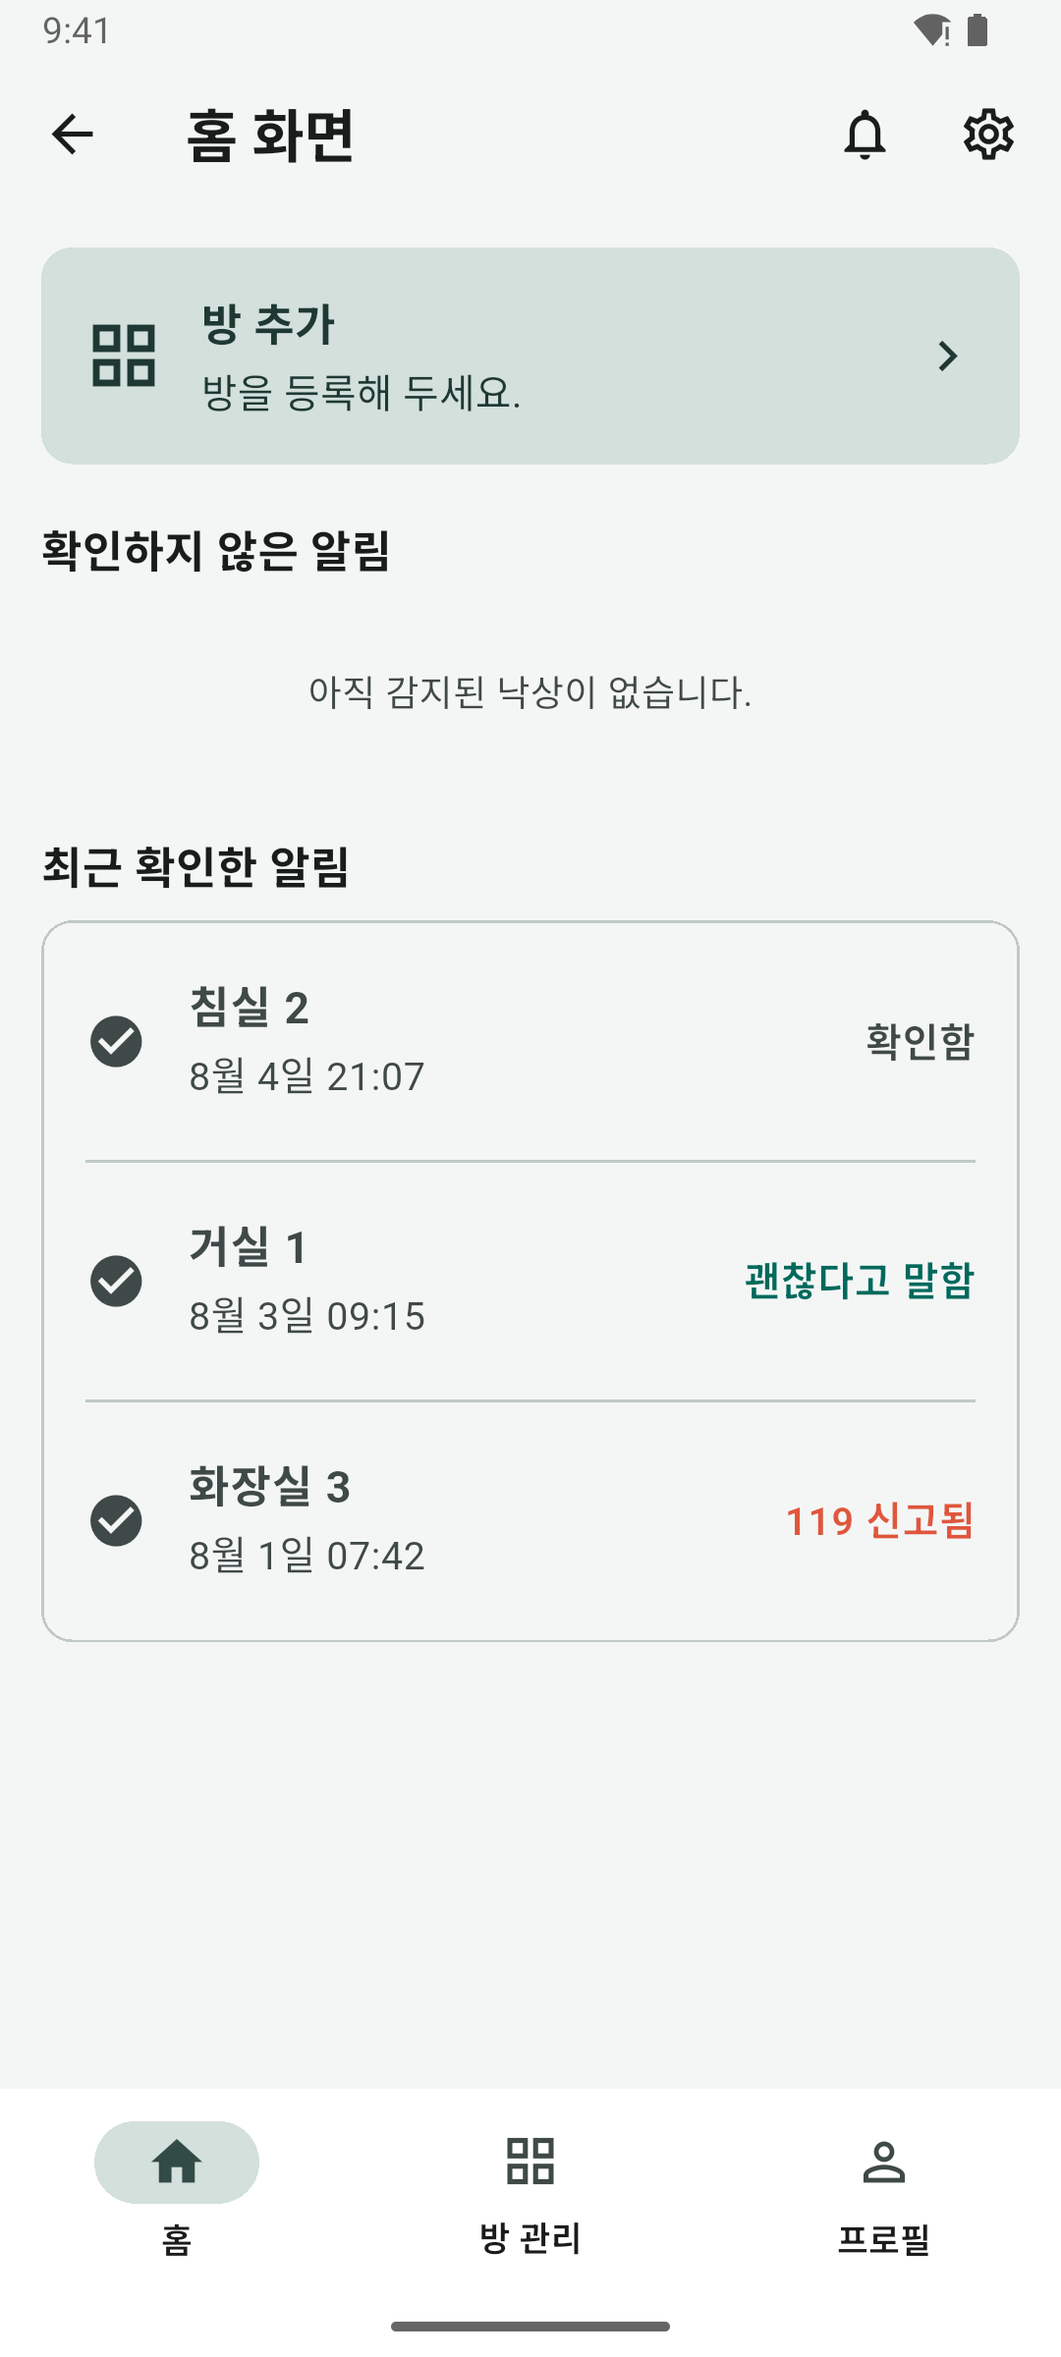
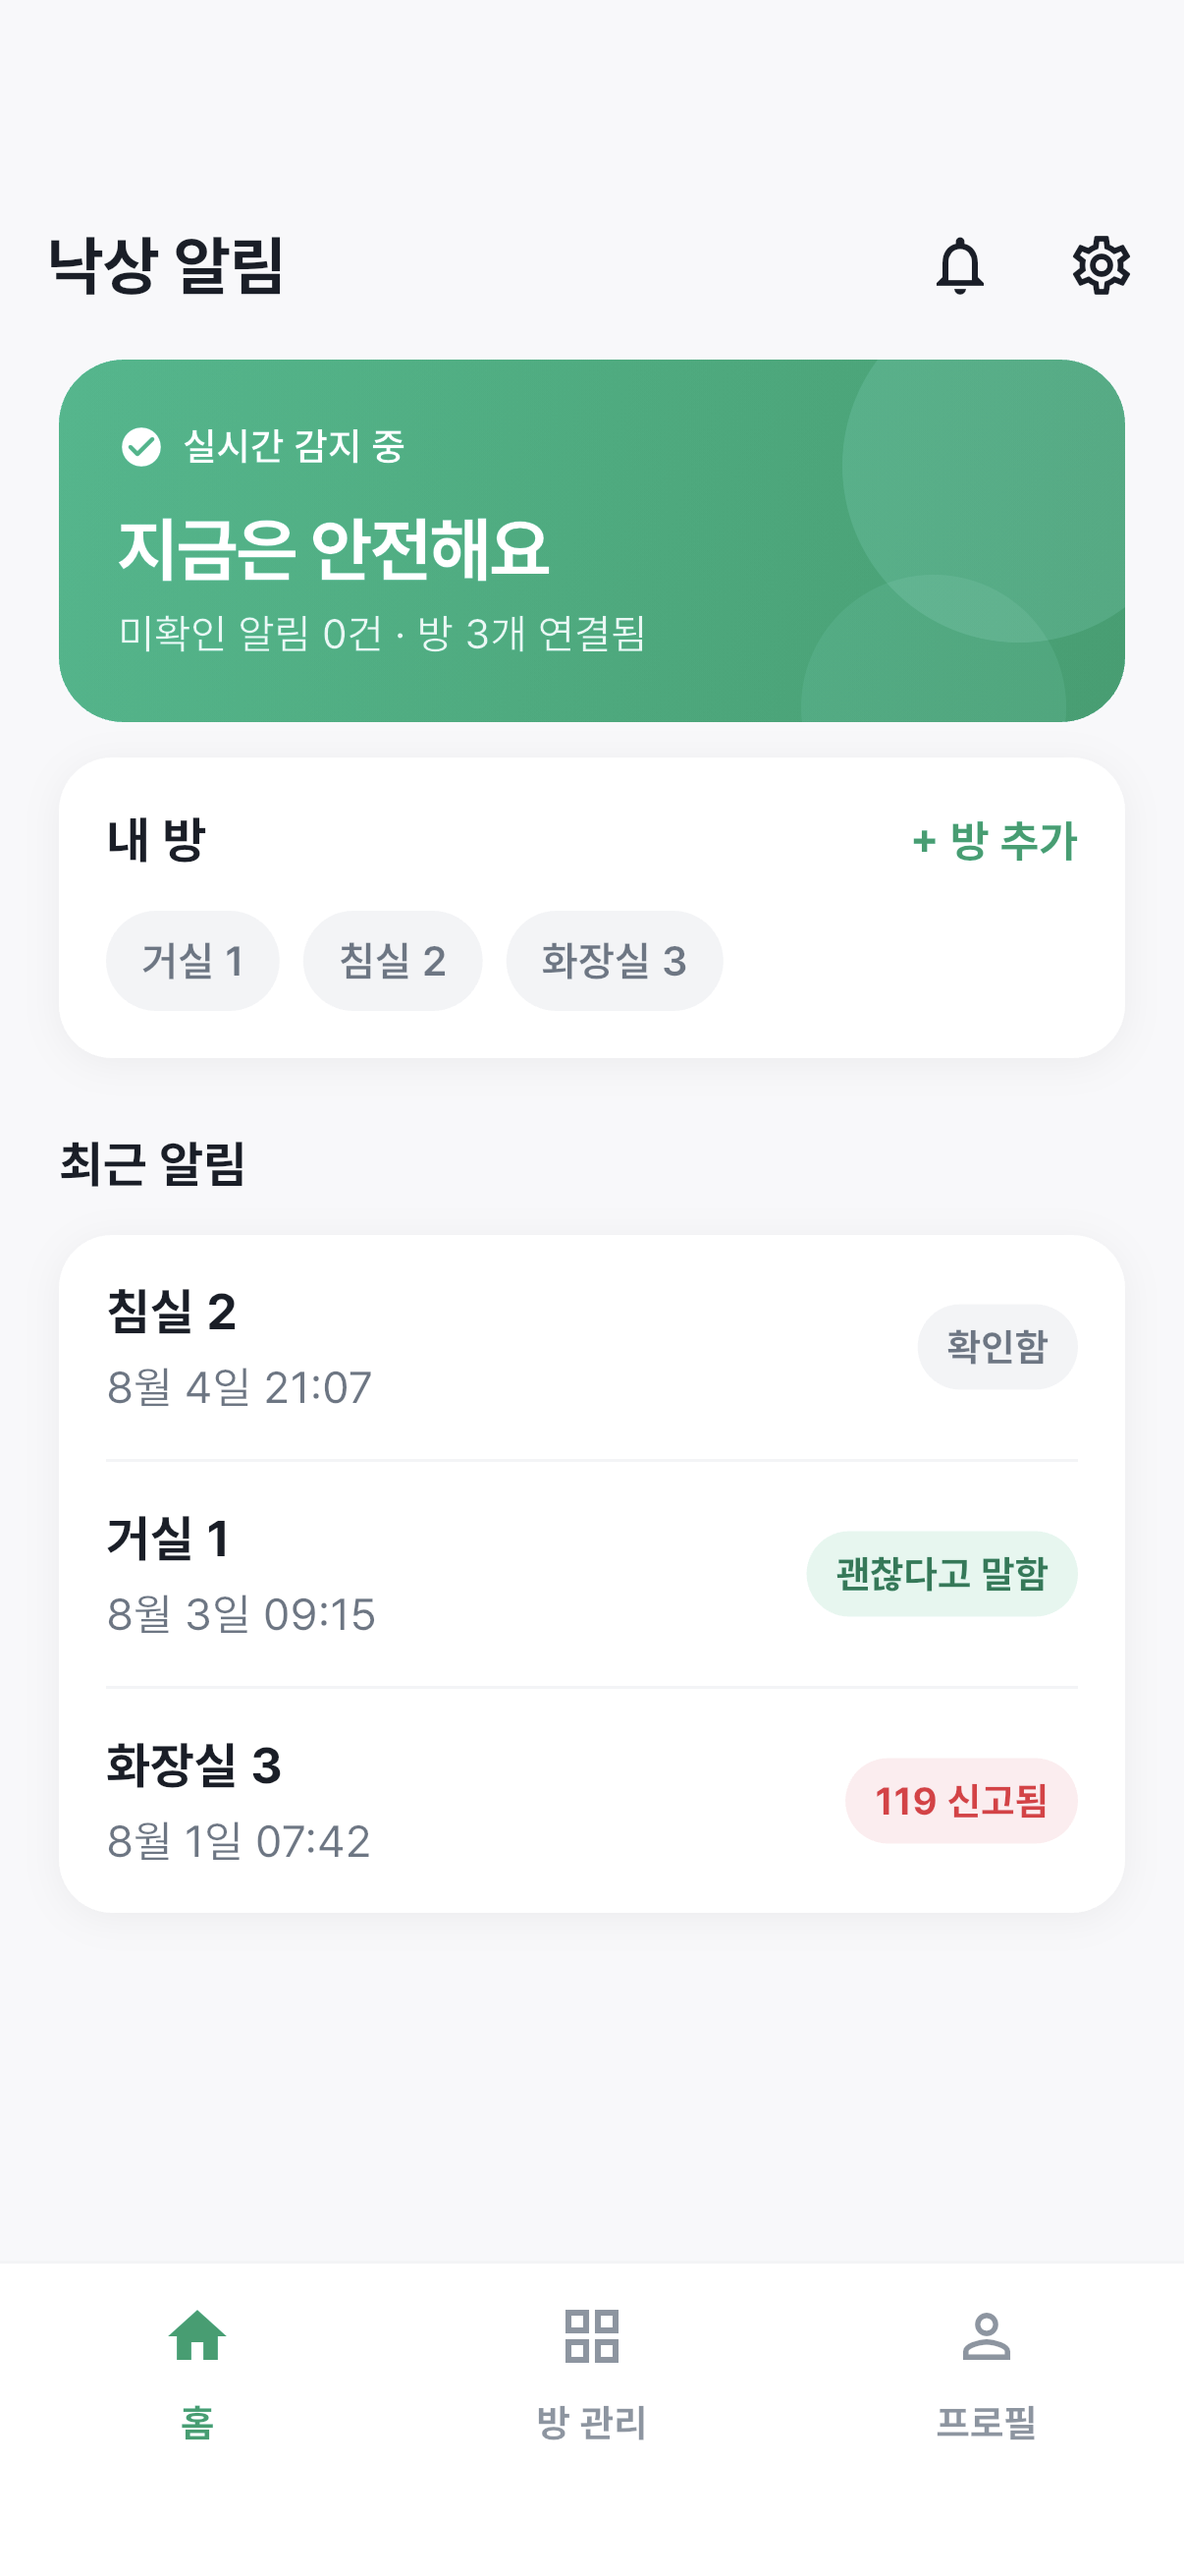
docs: README 보호자 앱 절 갱신, 새 디자인 스크린샷 14장 재캡처, 설계·계획에 구현 중 변경 반영
Claude-Session: https://claude.ai/code/session_013iyQUwcvBYESCEApFPvZjQ

diff --git a/docs/superpowers/plans/2026-08-29-app-visual-redesign.md b/docs/superpowers/plans/2026-08-29-app-visual-redesign.md
@@ -2660,36 +2660,23 @@ cd /Users/munhokang/82107/fall-detection && git add app/lib/app_theme.dart && gi
 
 로 바꾼다.
 
-- [ ] **Step 2: 시뮬레이터·백엔드 준비**
+- [ ] **Step 2: 자동 촬영 스크립트** (실행 중 변경 — 백엔드 대신 가짜 Api, 스펙 §8)
 
-`running-fall-guardian` 스킬을 읽고 그 절차대로 백엔드(Spring Boot + PostgreSQL)를 띄우고 방 3개(거실 1 · 침실 2 · 화장실 3)와 낙상 4건(미확인 1 · 확인함 1 · 괜찮다고 말함 1 · 119 신고됨 1)을 만든다. iOS 시뮬레이터:
+`app/test_driver/integration_test.dart`(드라이버: 받은 PNG를 `../docs/screenshots/<이름>.png`로 저장)와
+`app/integration_test/screenshots_test.dart`(가짜 `Api`로 방 3개 · 낙상 4건을 심고 12개 화면을 순서대로 띄워
+`binding.takeScreenshot('01-splash')` … `'14-settings'`)를 만든다. 사고 발생 창은 첫 폴링(프라이밍) 뒤
+6초 실제 시간을 기다려 두 번째 폴링에서 새 낙상이 들어오게 한다. OS 알림 권한 창이 캡처를 덮지 않게
+`LocalStore.setNotificationsOn(false)`를 먼저 부른다.
+
+- [ ] **Step 3: 시뮬레이터에서 촬영**
 
 ```bash
 xcrun simctl list devices available | grep -i iphone | head -3     # UDID 하나 고른다
-xcrun simctl boot <UDID>; open -a Simulator
-cd /Users/munhokang/82107/fall-detection/app && flutter run -d <UDID>
-```
-
-백엔드를 띄울 수 없으면(PostgreSQL 없음 등) 서버 없이 열리는 화면(01 스플래시 · 02 시작 · 03 로그인 · 04 회원가입 · 14 설정)만 찍고, 못 찍은 파일 이름을 마지막 보고에 적는다.
-
-- [ ] **Step 3: 화면마다 캡처** (앱을 조작해 해당 화면을 띄운 뒤)
-
-```bash
-S=/Users/munhokang/82107/fall-detection/docs/screenshots
-xcrun simctl io booted screenshot $S/01-splash.png            # 앱 시작 직후 1초 안
-xcrun simctl io booted screenshot $S/02-start.png             # 로그아웃 상태 첫 화면
-xcrun simctl io booted screenshot $S/03-login.png
-xcrun simctl io booted screenshot $S/04-signup.png
-xcrun simctl io booted screenshot $S/05-home.png              # 미확인 0건(초록 히어로)
-xcrun simctl io booted screenshot $S/06-fall-alert-dialog.png # 새 낙상 POST 직후 뜨는 창
-xcrun simctl io booted screenshot $S/07-home-unread.png       # 미확인 1건(빨간 히어로)
-xcrun simctl io booted screenshot $S/08-fall-list.png
-xcrun simctl io booted screenshot $S/09-fall-detail.png       # 미확인 건
-xcrun simctl io booted screenshot $S/10-rooms.png
-xcrun simctl io booted screenshot $S/11-room-add-dialog.png
-xcrun simctl io booted screenshot $S/12-profile.png
-xcrun simctl io booted screenshot $S/13-withdraw-dialog.png
-xcrun simctl io booted screenshot $S/14-settings.png
+xcrun simctl boot <UDID>
+cd /Users/munhokang/82107/fall-detection/app && flutter analyze && \
+flutter drive --driver=test_driver/integration_test.dart \
+  --target=integration_test/screenshots_test.dart -d <UDID>
+ls -la ../docs/screenshots/*.png | head -14                        # 14장 모두 방금 시각인지
 ```
 
 - [ ] **Step 4: 눈으로 대조** — 각 PNG를 열어 스펙 §5와 시안(`.superpowers/brainstorm/2106-1787977035/content/*.html`)에 맞는지, '크게' 배율에서 글자가 잘리지 않는지 본다. 어긋나면 해당 화면 태스크로 돌아가 고치고 다시 찍는다.

diff --git a/README.md b/README.md
@@ -69,13 +69,13 @@ STANDING ──속도──▶ FALLING ──자세──▶ FALLEN ──시간
 Flutter 하나로 iOS · Android · 웹 브라우저에서 같은 화면이 뜬다. 화면은 12개다.
 
 - **시작 흐름** — 스플래시 → 시작 → 로그인/회원가입
-- **홈** — 미확인·최근 알림, 방 추가 배너
+- **홈** — 맨 위 상태 카드가 색으로 답한다(안전=초록 · 미확인 낙상=빨강 · 서버 연결 끊김=회색). 그 아래 내 방 · 최근 알림
 - **하단 탭** — 홈 · 방 관리(2열 카드로 추가/수정/삭제) · 프로필
 - **알림** — 목록과 상세. 상세에서 돌봄 대상자 전화, 119 긴급 신고, 기록 삭제
 - **사고 발생 창** — 새 낙상이 오면 화면 위로 뜨고 확인 버튼으로만 닫힌다. 여러 건이면 순차로 표시하며, 창에서 바로 전화·119를 걸 수 있다
 - **설정** — 화면 크기 배율, 알림 토글
 
-목록·홈 타일에는 상태 배지가 붙는다(`119 신고됨` > `괜찮다고 말함` > `확인함`/`미확인`). 앱은 기기 다크모드와 무관하게 항상 라이트 테마로 그려진다. 화면 캡쳐는 `docs/screenshots/`에 있다.
+목록·홈 타일에는 상태 칩이 붙는다(`119 신고됨` > `괜찮다고 말함` > `확인함`/`미확인`). 디자인은 연회색 바탕에 흰 카드 · 초록 포인트 · 긴급은 빨간 그라데이션 카드인 "컬러 히어로" 스타일이고(`docs/superpowers/specs/2026-08-29-app-visual-redesign-design.md`), 글꼴은 Pretendard를 번들해 iOS · Android · 웹에서 같게 보인다. 앱은 기기 다크모드와 무관하게 항상 라이트 테마로 그려진다. 화면 캡쳐는 `docs/screenshots/`에 있다.
 
 ## 실행 방법
 

diff --git a/docs/superpowers/specs/2026-08-29-app-visual-redesign-design.md b/docs/superpowers/specs/2026-08-29-app-visual-redesign-design.md
@@ -289,3 +289,9 @@ class ActionButton extends StatelessWidget {
   `main.dart`가 `MaterialApp.builder`에서 `applyTextScale(context, scale, child)`로 `MediaQuery.textScaler`를
   건다. 명시 `fontSize`가 있는 글자까지 전부 배율이 걸리므로 설정이 실제로 동작하게 된다.
   `app_theme_test.dart`가 세 배율의 렌더 높이를 비교해 지킨다.
+- **스크린샷은 가짜 Api로 자동 촬영한다.** 결정 8은 백엔드 + 시드 데이터로 시뮬레이터에서 찍는다고
+  했으나, `integration_test/screenshots_test.dart`가 `Api`를 상속한 가짜(방 3개 · 낙상 4건 · 전화번호)로
+  12개 화면을 순서대로 띄우고 `takeScreenshot`으로 `docs/screenshots/NN-*.png`에 저장한다
+  (`test_driver/integration_test.dart`가 파일로 쓴다). 서버·DB 없이 명령 하나로 재현된다:
+  `cd app && flutter drive --driver=test_driver/integration_test.dart --target=integration_test/screenshots_test.dart -d <시뮬레이터 UDID>`.
+  Flutter 화면만 캡처되므로 옛 스크린샷과 달리 상단 상태 표시줄(시계·배터리)은 없다.
